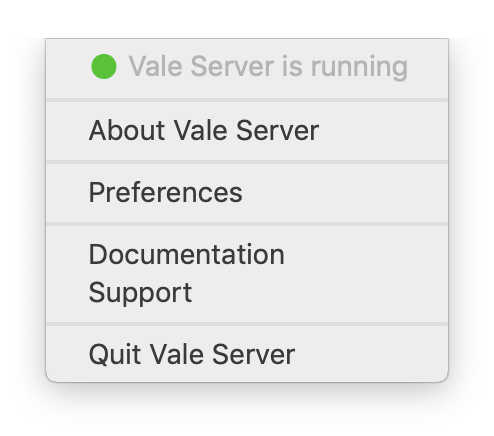
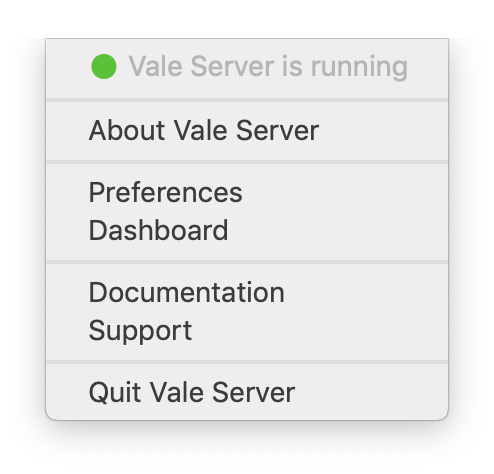
WIP

diff --git a/docs/content/index.md b/docs/content/index.md
@@ -1,24 +1,26 @@
-## About
+# Getting Started
 
-Vale Server is a standalone desktop application for [Vale][1], a high-performance
-customizable linter for prose.
+Vale Server is a standalone desktop application for [Vale][1], a linter for
+prose that emphasizes performance, privacy, and extensibility.
 
-## macOS
+## Installation
 
-To install Vale Server on macOS, simply open the `.dmg` file provided in your
+### macOS
+
+To install on macOS, simply open the `.dmg` file provided in your
 download link and drag the application into your Applications folder.
 
 ![Vale Server](img/dmg.png)
 
-When you open the app, Vale Server will launch in the background at
-`http://localhost:7777` (by default) and you will see this icon <img src="img/menu-icon.png" style="height: 20px; padding-left: 2px; padding-right: 2px">
+When you open the application, Vale Server will launch in the background at
+`http://localhost:7777` (by default) and you will see this icon <img src="img/menu-icon.png" style="height: 18px; padding-left: 2px; padding-right: 2px">
 in your menu bar. Clicking this icon will open a menu that allows you to
-configure the server:
+interact with the server:
 
 ![Vale Server menu](img/menu.png)
 
-## Windows
+### Windows
 
-## Linux
+### Linux
 
 [1]: https://github.com/errata-ai/vale

diff --git a/docs/content/usage.md b/docs/content/usage.md
@@ -1,5 +1,5 @@
-## Windows
+# Overview
 
-## macOS
+## Dashboard
 
-## Linux
+## Sidebar
